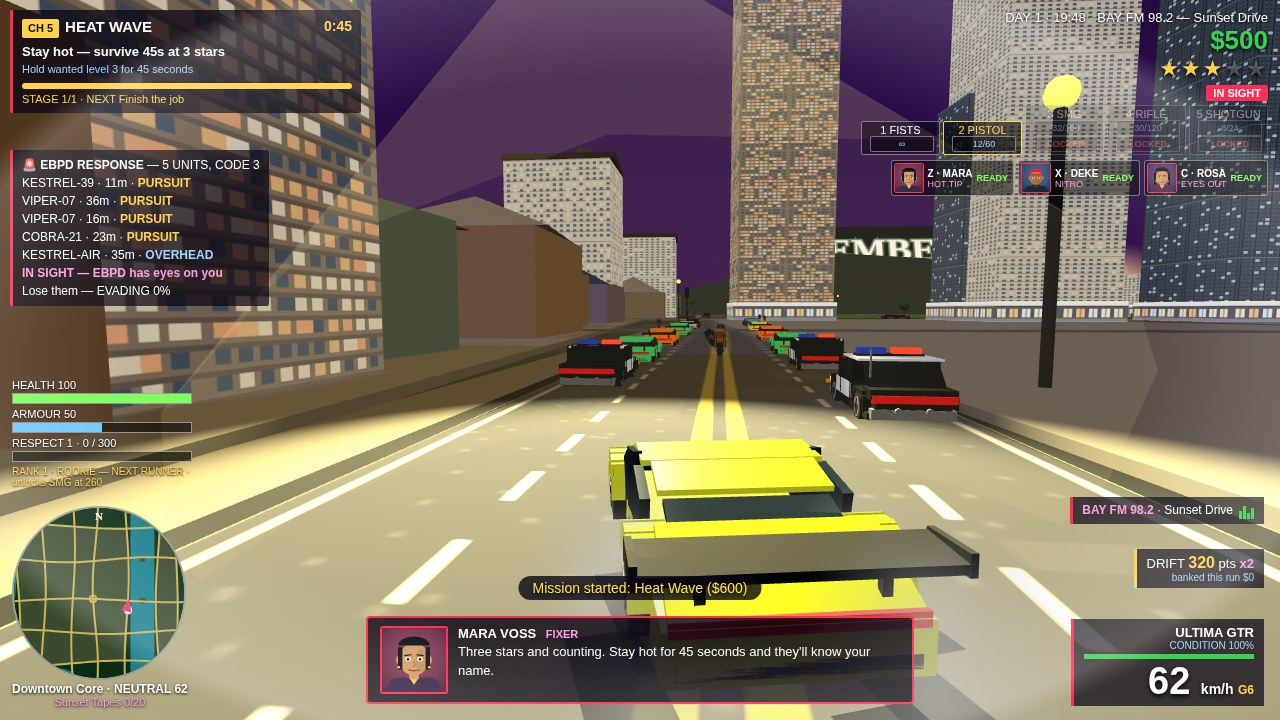
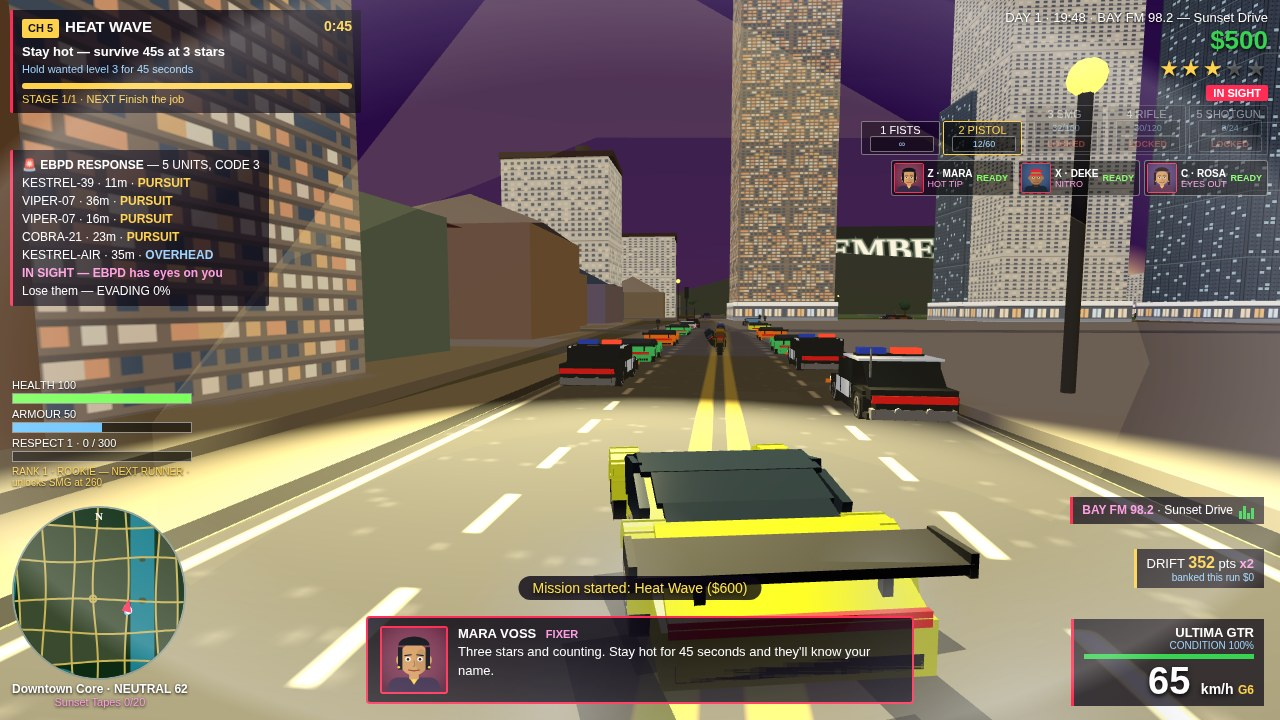
Ember Bay v18.26: revert to v18.24 + full-length side glass from behind front wheel to ahead of rear wheel

diff --git a/game/src/vehicles.js b/game/src/vehicles.js
@@ -211,7 +211,7 @@ export function makeCar(G, kind, colorIdx = 0) {
     lamps(g, 2.62, -2.62, .9);
   } else if (kind === 'sport') {
     parts(g,[
-[2,.42,4.2,0,.38,-.5,0],[1,.07,1.5,0,.74,.85,0,.28],[2.1,.24,.6,0,.48,1.9,0,.28],[.45,.24,.16,.88,.48,1.99,0,.28,.8],[.45,.24,.16,-.88,.48,1.99,0,.28,-.8],[1.9,.08,.1,0,.26,2.15,0],[.7,.15,.07,0,.44,2.19,2],[.45,.15,.07,-.68,.44,2.19,2],[.45,.15,.07,.68,.44,2.19,2],[1.9,.12,.18,0,.34,2.17,0,.3],[.3,.16,.28,-1,.52,2.02,2,.28],[.3,.16,.28,1,.52,2.02,2,.28],[.34,.07,.32,-1,.62,2,0,.28],[.34,.07,.32,1,.62,2,0,.28],[.24,.12,.04,-1,.52,2.18,5,.28],[.24,.12,.04,1,.52,2.18,5,.28],[.09,.06,.03,-1,.52,2.21,6,.28],[.09,.06,.03,1,.52,2.21,6,.28],[1.6,.06,.44,0,.71,1.35,1,.42],[1.7,.06,.54,0,.95,.9,1,.38],[1.9,.06,.63,0,1.2,.35,0,.28],[1.9,.06,.6,0,1.27,-.25,0,-.09],[1.7,.06,.57,0,1.17,-.83,0,-.25],[1.6,.06,.58,0,.93,-1.38,1,-.32],[1.5,.06,.42,0,.74,-1.85,1,-.29],[.1,.68,.8,-.97,.92,0,1,.15],[.1,.68,.8,.97,.92,0,1,.15],[.1,.55,.9,-.97,.7,.85,1,.39],[.1,.55,.9,.97,.7,.85,1,.39],[.1,.62,.7,-.97,.83,-.75,1,-.2],[.1,.62,.7,.97,.83,-.75,1,-.2],[1.9,.06,1,0,.8,-2.15,0,-.45],[.06,.22,.6,-1.02,.48,-.5,2],[.06,.22,.6,1.02,.48,-.5,2],[2.4,.08,.55,0,1.01,-2.4,2,-.1],[.06,.18,.55,-1.2,1.01,-2.4,2],[.06,.18,.55,1.2,1.01,-2.4,2],[.08,.3,.08,-.7,.82,-2.4,2],[.08,.3,.08,.7,.82,-2.4,2],[1.9,.12,.06,0,.6,-2.58,6],[1.8,.12,.2,0,.28,-2.5,2]],[paint,glass,dark,chrome,wht,head,tail,g2]);
+[2,.42,4.2,0,.38,-.5,0],[1,.07,1.5,0,.74,.85,0,.28],[2.1,.24,.6,0,.48,1.9,0,.28],[.45,.24,.16,.88,.48,1.99,0,.28,.8],[.45,.24,.16,-.88,.48,1.99,0,.28,-.8],[1.9,.08,.1,0,.26,2.15,0],[.7,.15,.07,0,.44,2.19,2],[.45,.15,.07,-.68,.44,2.19,2],[.45,.15,.07,.68,.44,2.19,2],[1.9,.12,.18,0,.34,2.17,0,.3],[.7,.2,.45,-.8,.55,2.02,3,.3],[.7,.2,.45,.8,.55,2.02,3,.3],[.6,.14,.05,-.8,.58,2.28,5,.3],[.6,.14,.05,.8,.58,2.28,5,.3],[.14,.08,.04,-.62,.58,2.32,6,.3],[.14,.08,.04,.62,.58,2.32,6,.3],[1.6,.06,.44,0,.71,1.35,1,.42],[1.7,.06,.54,0,.9,.9,1,.38],[1.9,.06,.63,0,1.09,.35,1,.28],[1.9,.06,.6,0,1.15,-.25,1,-.09],[1.7,.06,.57,0,1.05,-.83,1,-.25],[1.6,.06,.58,0,.89,-1.38,1,-.32],[1.5,.06,.42,0,.74,-1.85,1,-.29],[.1,.56,.8,-.97,.86,0,1,.15],[.1,.56,.8,.97,.86,0,1,.15],[.1,.46,.48,-.97,.79,.64,1,.32],[.1,.46,.48,.97,.79,.64,1,.32],[.1,.52,.7,-.97,.79,-.75,1,-.2],[.1,.52,.7,.97,.79,-.75,1,-.2],[1.9,.06,1,0,.8,-2.15,0,-.45],[.06,.22,.6,-1.02,.48,-.5,2],[.06,.22,.6,1.02,.48,-.5,2],[2.4,.08,.55,0,1.01,-2.4,2,-.1],[.06,.18,.55,-1.2,1.01,-2.4,2],[.06,.18,.55,1.2,1.01,-2.4,2],[.08,.3,.08,-.7,.82,-2.4,2],[.08,.3,.08,.7,.82,-2.4,2],[1.9,.12,.06,0,.6,-2.58,6],[1.8,.12,.2,0,.28,-2.5,2]],[paint,glass,dark,chrome,wht,head,tail,g2]);
     const arch=(x,z,A)=>{for(const d of A){const a=d*Math.PI/180;box(.38,.12,.3,paint,x,.42+.47*Math.cos(a),z+.47*Math.sin(a),g,a,0,0);}};
     const sw=(x,z,A)=>{const w=sportWheel(.42,0xffc21c);w.position.set(x,.42,z);g.add(w);wheels.push(w);arch(x,z,A);};
     const AF=[-72,-48,-24,0,24,48,72],AR=[-72,-48,-24,0,24,48];
